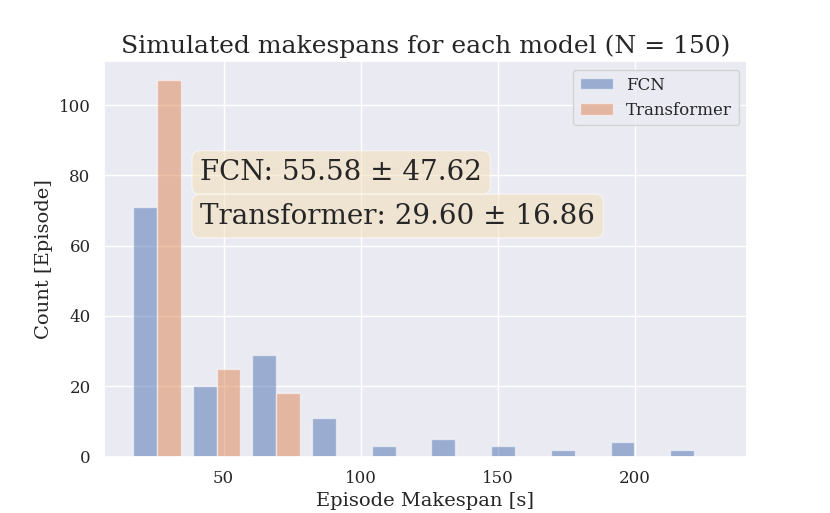
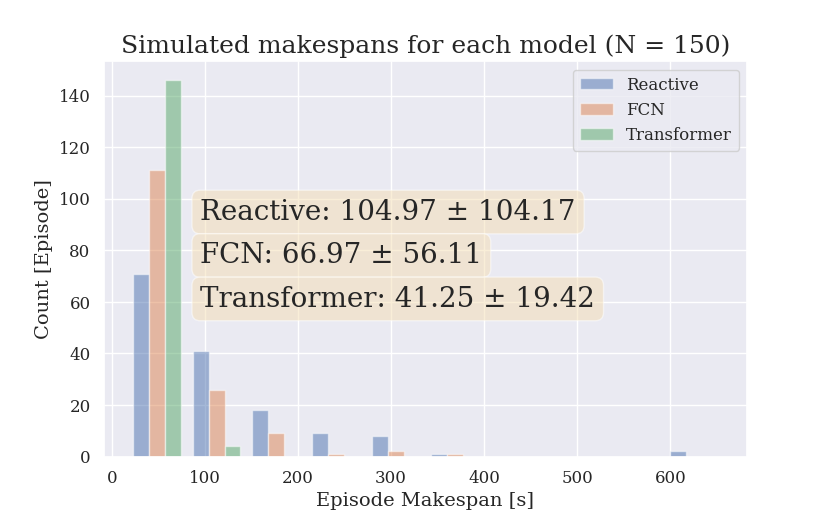
just simulation okay, equation not working properly yet

diff --git a/src/utilities/makespan_utils.py b/src/utilities/makespan_utils.py
@@ -115,8 +115,9 @@ def classify(model: tf.keras.Model, episode: np.ndarray, true_label: float, wind
         n_windows = time_steps - window_width + 1
         episode_X_list = []
         for i in range(n_windows):
-            if i >= 350:
-                episode_window = episode[i:i + window_width, :]
+            if i >= window_width:
+                # episode_window = episode[i:i + window_width, :]
+                episode_window = episode[i - window_width:i, :]
                 episode_X_list.append(episode_window[:, 1:7])
         episode_X = tf.stack(episode_X_list)
         prediction = model.predict(episode_X, use_multiprocessing=True)
@@ -127,7 +128,7 @@ def classify(model: tf.keras.Model, episode: np.ndarray, true_label: float, wind
         )
 
     # Return the classification answer and the time (in seconds) at which the classification happened
-    return ans, (350 * ts_s) + (t_c * ts_s)
+    return ans, (window_width * ts_s) + (t_c * ts_s)
 
 
 def run_reactive_simulation(episodes: list, n_simulations: int = 100, verbose: bool = False):
@@ -158,11 +159,27 @@ def run_reactive_simulation(episodes: list, n_simulations: int = 100, verbose: b
     return total_time / n_simulations, mks
 
 
-def run_vanilla_simulation(model: tf.keras.Model, episodes: list, n_simulations: int = 1000, verbose: bool = False):
+def run_simulation(model: tf.keras.Model, episodes: list, n_simulations: int = 1000, verbose: bool = False):
+    perf = CounterDict()
+    N_posCls  = 0 # --------- Number of positive classifications
+    N_negCls  = 0 # --------- Number of negative classifications
+    N_success = 0 # --------- Number of true task successes
+    N_failure = 0 # --------- Number of true task failures
+    MTP       = 0.0 # ------- Mean Time to Positive Classification
+    MTN       = 0.0 # ------- Mean Time to Negative Classification
+    MTS       = 0.0 # ------- Mean Time to Success
+    MTF       = 0.0 # ------- Mean Time to Failure
+
+    timed_episodes = []
     rolling_window_width = int(7.0 * 50)
     ts_s = 20.0 / 1000.0
     total_time = 0
     mks = []
+
+    # Params for selecting first F_z hit
+    winWidth    = 10
+    FzCol       =  3
+    spikeThresh = 0.05
 
     for i in range(n_simulations):
         if verbose:
@@ -172,63 +189,6 @@ def run_vanilla_simulation(model: tf.keras.Model, episodes: list, n_simulations:
         while not win:
             ep = random.choice(episodes)
             episode_time = ep.shape[0] * ts_s
-            true_label = 0.0
-            if ep[0, 7] == 0.0:
-                true_label = 1.0
-            ans, t_c = classify(
-                model=model,
-                episode=ep,
-                true_label=true_label,
-                window_width=rolling_window_width,
-                ts_s=ts_s
-            )
-
-            if ans == 'NC':
-                if true_label == 1.0:
-                    makespan += episode_time
-                elif true_label == 0.0:
-                    makespan += episode_time
-                    win = True
-            else:
-                if ans in ('TN', 'FP'):
-                    makespan += t_c
-                elif ans in ('TP', 'FN'):
-                    makespan += episode_time
-                    win = True
-        total_time += makespan
-        mks.append(makespan)
-
-    return total_time / n_simulations, mks
-
-
-def run_simulation(model: tf.keras.Model, episodes: list, n_simulations: int = 1000, verbose: bool = False):
-    perf = CounterDict()
-    N_posCls  = 0 # --------- Number of positive classifications
-    N_negCls  = 0 # --------- Number of negative classifications
-    # N_success = 0 # --------- Number of true task successes
-    # N_failure = 0 # --------- Number of true task failures
-    ts_s      = 20.0/1000.0 # Seconds per timestep
-    MTP       = 0.0 # ------- Mean Time to Positive Classification
-    MTN       = 0.0 # ------- Mean Time to Negative Classification
-    # MTS       = 0.0 # ------- Mean Time to Success
-    # MTF       = 0.0 # ------- Mean Time to Failure
-
-    timed_episodes = []
-    rolling_window_width = int(7.0 * 50)
-    total_time = 0
-    mks = []
-
-    # Params for selecting first F_z hit
-    winWidth    = 10
-    FzCol       =  3
-    spikeThresh = 0.05
-    for i in range(n_simulations):
-        if verbose:
-            print(f'Simulation {i+1}/{n_simulations}:')
-        win = False
-        makespan = 0
-        while not win:
-            ep = random.choice(episodes)
             N = ep.shape[0]
             chopDex = 0
             for bgn in range( int(1.5*50), N-winWidth+1 ):
@@ -245,7 +205,6 @@ def run_simulation(model: tf.keras.Model, episodes: list, n_simulations: int = 1
                     break
             if (chopDex * ts_s) < 15.0:
                 ep_matrix = ep[chopDex:, :]
-                episode_time = ep_matrix.shape[0] * ts_s
                 true_label = 0.0
                 if ep_matrix[0, 7] == 0.0:
                     true_label = 1.0
@@ -262,40 +221,38 @@ def run_simulation(model: tf.keras.Model, episodes: list, n_simulations: int = 1
                 episode_obj.answer = ans
                 episode_obj.runTime = episode_time
 
-                t_ans_s = ((t_c / ts_s) + chopDex + ep_matrix.shape[1] - 1) * ts_s
                 if ans == 'NC':
-                    # If true_label == failure
                     if true_label == 1.0:
                         makespan += episode_time
                         perf.count('NCF')
-                    # If true_label == success
                     elif true_label == 0.0:
                         makespan += episode_time
                         win = True
                         perf.count('NCS')
                 else:
                     perf.count(ans)
-                    if ans == 'TN' or ans == 'FP':
-                        makespan += t_ans_s
-                    elif ans == 'TP' or ans == 'FN':
+                    if ans in ('TN', 'FN'):
+                        makespan += t_c + (chopDex * ts_s)
+                        MTN += t_c + (chopDex * ts_s)
+                        episode_obj.TTN = t_c + (chopDex * ts_s)
+                        N_negCls += 1
+                    elif ans in ('TP', 'FP'):
                         makespan += episode_time
                         win = True
-
-                    if ans in ( 'TP', 'FP' ):
                         MTP += episode_time
                         episode_obj.TTP = episode_time
                         N_posCls += 1
-                    elif ans in ( 'TN', 'FN' ):
-                        MTN += t_ans_s
-                        episode_obj.TTN = t_ans_s
-                        N_negCls += 1
+
+                if true_label == 1.0:
+                    MTF += episode_time
+                    N_failure += 1
+                elif true_label == 0.0:
+                    MTS += episode_time
+                    N_success += 1
+
                 timed_episodes.append(episode_obj)
         total_time += makespan
         mks.append(makespan)
-
-    times = []
-    for ep in timed_episodes:
-        times.append(ep.runTime)
 
     confMatx = {
         # Actual Positives
@@ -309,12 +266,14 @@ def run_simulation(model: tf.keras.Model, episodes: list, n_simulations: int = 1
 
     MTP /= N_posCls #- Mean Time to Positive Classification
     MTN /= N_negCls #- Mean Time to Negative Classification
-    MTS, MTF, _, _ = get_mts_mtf(trunc_data=episodes)
+    MTS /= N_success
+    MTF /= N_failure
+    # MTS, MTF, _, _ = get_mts_mtf(trunc_data=episodes)
 
     print( f"MTP: {MTP} [s]" )
     print( f"MTN: {MTN} [s]" )
-    print( f"MTP: {MTS} [s]" )
-    print( f"MTN: {MTF} [s]" )
+    print( f"MTS: {MTS} [s]" )
+    print( f"MTF: {MTF} [s]" )
 
     EMS = monitored_makespan(
         MTF = MTF, 
@@ -344,6 +303,151 @@ def run_simulation(model: tf.keras.Model, episodes: list, n_simulations: int = 1
     }
 
     return total_time / n_simulations, mks, metrics, confMatx
+
+
+# def run_simulation(model: tf.keras.Model, episodes: list, n_simulations: int = 1000, verbose: bool = False):
+#     perf = CounterDict()
+#     N_posCls  = 0 # --------- Number of positive classifications
+#     N_negCls  = 0 # --------- Number of negative classifications
+#     # N_success = 0 # --------- Number of true task successes
+#     # N_failure = 0 # --------- Number of true task failures
+#     ts_s      = 20.0/1000.0 # Seconds per timestep
+#     MTP       = 0.0 # ------- Mean Time to Positive Classification
+#     MTN       = 0.0 # ------- Mean Time to Negative Classification
+#     # MTS       = 0.0 # ------- Mean Time to Success
+#     # MTF       = 0.0 # ------- Mean Time to Failure
+
+#     timed_episodes = []
+#     rolling_window_width = int(7.0 * 50)
+#     total_time = 0
+#     mks = []
+
+#     # Params for selecting first F_z hit
+#     winWidth    = 10
+#     FzCol       =  3
+#     spikeThresh = 0.05
+#     for i in range(n_simulations):
+#         if verbose:
+#             print(f'Simulation {i+1}/{n_simulations}:')
+#         win = False
+#         makespan = 0
+#         while not win:
+#             ep = random.choice(episodes)
+#             N = ep.shape[0]
+#             chopDex = 0
+#             for bgn in range( int(1.5*50), N-winWidth+1 ):
+#                 end     = bgn+winWidth
+#                 FzSlice = ep[ bgn:end, FzCol ].flatten()
+#                 # print( FzSlice.shape )
+#                 # print( np.amax( FzSlice ), np.amin( FzSlice ), type( np.amax( FzSlice ) - np.amin( FzSlice ) ) )
+#                 if np.abs( np.amax( FzSlice ) - np.amin( FzSlice ) ) >= spikeThresh:
+#                     # print( np.amax( FzSlice ), np.amin( FzSlice ) )
+#                     # print( FzSlice )
+#                     chopDex = end
+#                     # if verbose:
+#                     #     print( f"Relevant data at {chopDex*20/1000.0} seconds!" )
+#                     break
+#             if (chopDex * ts_s) < 15.0:
+#                 ep_matrix = ep[chopDex:, :]
+#                 episode_time = ep_matrix.shape[0] * ts_s
+#                 true_label = 0.0
+#                 if ep_matrix[0, 7] == 0.0:
+#                     true_label = 1.0
+#                 ans, t_c = classify(
+#                     model=model,
+#                     episode=ep_matrix,
+#                     true_label=true_label,
+#                     window_width=rolling_window_width,
+#                     ts_s=ts_s
+#                 )
+
+#                 episode_obj = EpisodePerf()
+#                 episode_obj.trueLabel = true_label
+#                 episode_obj.answer = ans
+#                 episode_obj.runTime = episode_time
+
+#                 t_ans_s = ((t_c / ts_s) + chopDex + ep_matrix.shape[1] - 1) * ts_s
+#                 if ans == 'NC':
+#                     # If true_label == failure
+#                     if true_label == 1.0:
+#                         makespan += episode_time
+#                         perf.count('NCF')
+#                     # If true_label == success
+#                     elif true_label == 0.0:
+#                         makespan += episode_time
+#                         win = True
+#                         perf.count('NCS')
+#                 else:
+#                     perf.count(ans)
+#                     if ans == 'TN' or ans == 'FP':
+#                         makespan += t_ans_s
+#                     elif ans == 'TP' or ans == 'FN':
+#                         makespan += episode_time
+#                         win = True
+
+#                     if ans in ( 'TP', 'FP' ):
+#                         MTP += episode_time
+#                         episode_obj.TTP = episode_time
+#                         N_posCls += 1
+#                     elif ans in ( 'TN', 'FN' ):
+#                         MTN += t_ans_s
+#                         episode_obj.TTN = t_ans_s
+#                         N_negCls += 1
+#                 timed_episodes.append(episode_obj)
+#         total_time += makespan
+#         mks.append(makespan)
+
+#     times = []
+#     for ep in timed_episodes:
+#         times.append(ep.runTime)
+
+#     confMatx = {
+#         # Actual Positives
+#         'TP' : (perf['TP'] if ('TP' in perf) else 0) / ((perf['TP'] if ('TP' in perf) else 0) + (perf['FN'] if ('FN' in perf) else 0)),
+#         'FN' : (perf['FN'] if ('FN' in perf) else 0) / ((perf['TP'] if ('TP' in perf) else 0) + (perf['FN'] if ('FN' in perf) else 0)),
+#         # Actual Negatives
+#         'TN' : (perf['TN'] if ('TN' in perf) else 0) / ((perf['TN'] if ('TN' in perf) else 0) + (perf['FP'] if ('FP' in perf) else 0)),
+#         'FP' : (perf['FP'] if ('FP' in perf) else 0) / ((perf['TN'] if ('TN' in perf) else 0) + (perf['FP'] if ('FP' in perf) else 0)),
+#         'NC' : (perf['NCS'] + perf['NCF'] if ('NCS' in perf and 'NCF' in perf) else 0) / len(timed_episodes),
+#     }
+
+#     MTP /= N_posCls #- Mean Time to Positive Classification
+#     MTN /= N_negCls #- Mean Time to Negative Classification
+#     MTS, MTF, _, _ = get_mts_mtf(trunc_data=episodes)
+
+#     print( f"MTP: {MTP} [s]" )
+#     print( f"MTN: {MTN} [s]" )
+#     print( f"MTP: {MTS} [s]" )
+#     print( f"MTN: {MTF} [s]" )
+
+#     EMS = monitored_makespan(
+#         MTF = MTF, 
+#         MTN = MTN, 
+#         MTS = MTS,
+#         P_TP = perf['TP'] / len(timed_episodes), 
+#         P_FN = perf['FN'] / len(timed_episodes), 
+#         P_TN = perf['TN'] / len(timed_episodes), 
+#         P_FP = perf['FP'] / len(timed_episodes),
+#         P_NCS = perf['NCS'] / len(timed_episodes),
+#         P_NCF = perf['NCF'] / len(timed_episodes)
+#     )
+#     print('Expected makespan [s] = ', end='')
+#     print( EMS, end=' [s]\n' )
+#     metrics = {
+#         'EMS': EMS,
+#         'MTP': MTP,
+#         'MTN': MTN,
+#         'MTS': MTS,
+#         'MTF': MTF,
+#         'P_TP': perf['TP'] / len(timed_episodes), 
+#         'P_FN': perf['FN'] / len(timed_episodes), 
+#         'P_TN': perf['TN'] / len(timed_episodes), 
+#         'P_FP': perf['FP'] / len(timed_episodes),
+#         'P_NCS': perf['NCS'] / len(timed_episodes),
+#         'P_NCF': perf['NCF'] / len(timed_episodes)
+#     }
+
+#     return total_time / n_simulations, mks, metrics, confMatx
 
 
 # TODO: fix this function, something wrong with MTP, MTN, MTS, MTF

diff --git a/src/runners/run_makespan_simulation.py b/src/runners/run_makespan_simulation.py
@@ -104,20 +104,14 @@ def run_makespan_simulation(models_to_run: dict, n_simulations: int = 100, data_
             if model_name not in res.keys():
                 res[model_name] = {'metrics': {}, 'conf_mat': {}, 'times': {}, 'makespan_sim_hist': [], 'makespan_sim_avg': -1, 'makespan_sim_std': -1}
             print(f'====> For model {model_name}:')
-            # avg_mks, mks, metrics, conf_mat = run_simulation(
-            #     model=model,
-            #     episodes=data,
-            #     n_simulations=n_simulations,
-            #     verbose=True
-            # )
-            avg_mks, mks = run_vanilla_simulation(
+            avg_mks, mks, metrics, conf_mat = run_simulation(
                 model=model,
                 episodes=data,
                 n_simulations=n_simulations,
                 verbose=True
             )
-            # res[model_name]['metrics'] = metrics
-            # res[model_name]['conf_mat'] = conf_mat
+            res[model_name]['metrics'] = metrics
+            res[model_name]['conf_mat'] = conf_mat
             res[model_name]['makespan_sim_hist'] = mks
             res[model_name]['makespan_sim_avg'] = avg_mks
             res[model_name]['makespan_sim_std'] = np.std(res[model_name]['makespan_sim_hist'])

diff --git a/src/runners/main_runner.py b/src/runners/main_runner.py
@@ -34,7 +34,7 @@ MODELS_TO_RUN = [
 def load_keras_model(model_name: str, makespan_models: dict, verbose: bool = True):
     try:
         model = tf.keras.models.load_model(f'../saved_models/{model_name}.keras')
-        makespan_models[model_name] = model
+        makespan_models[model_name.split('-')[0]] = model
         if verbose:
             print(f'--> Loaded {model_name}')
     except OSError as e:
@@ -252,7 +252,7 @@ if __name__ == '__main__':
         models_to_run={'FCN': fcn_model.model, 'VanillaTransformer': transformer_model.model},
         n_simulations = 150,
         data_mode='load_data',
-        compute=False
+        compute=True
     )
 
     plot_simulation_makespans(
